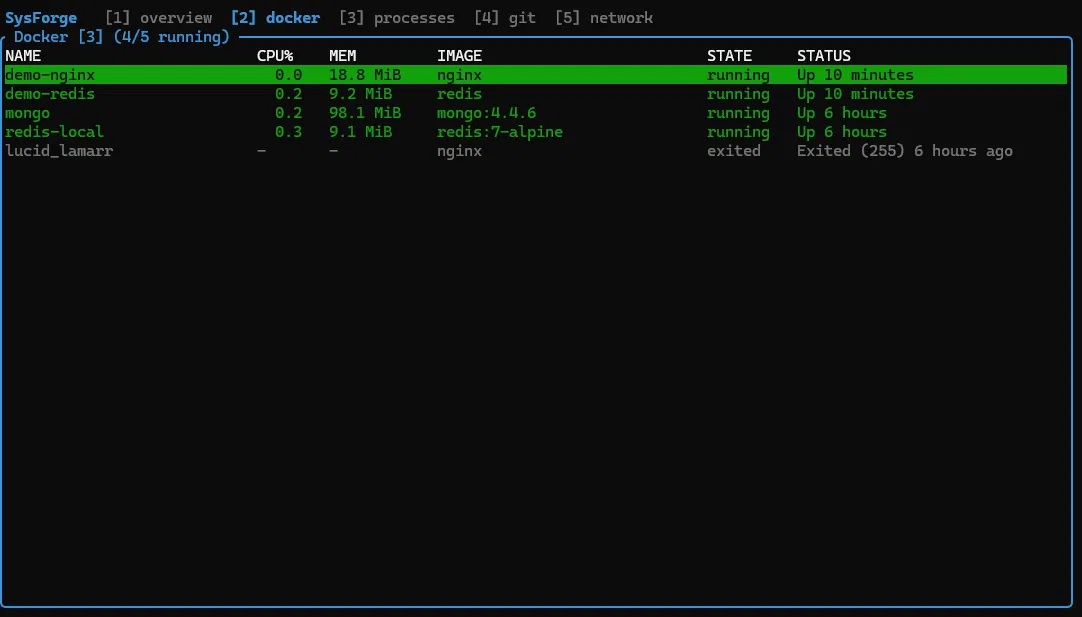
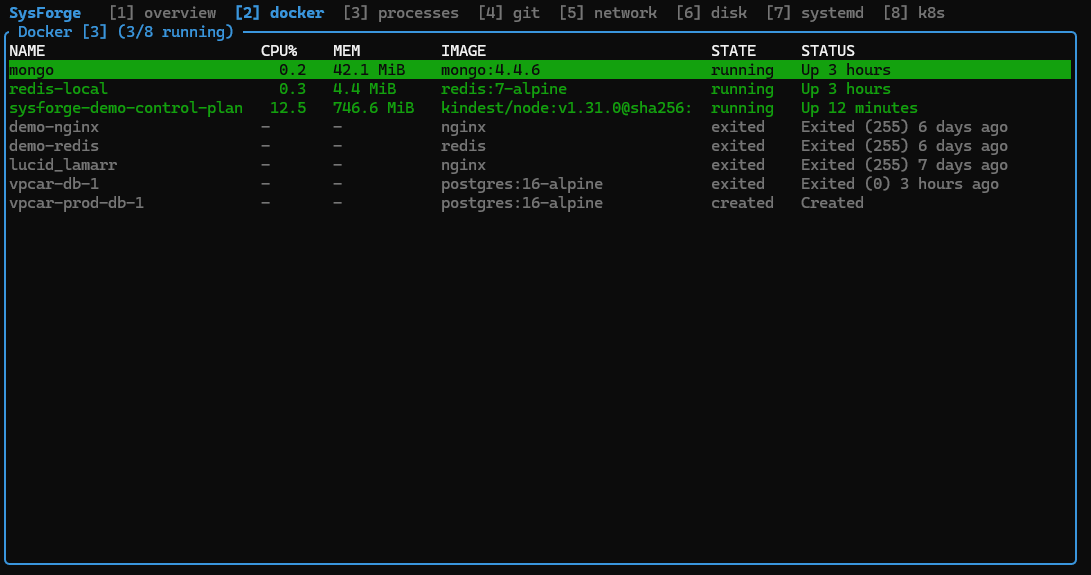
feat: wire up systemd start/stop service actions, update readme and docs

Changed region(s): [[0.0, 0.0, 1.0, 1.0]]

diff --git a/crates/app/src/ui.rs b/crates/app/src/ui.rs
@@ -339,6 +339,28 @@ impl UiState {
         }
     }
 
+    /// Proposes a start/stop on the focused systemd service.
+    fn propose_service(&mut self, state: &AppState, verb: sysforge_systemd::actions::Verb) {
+        if self.focus != PanelId::Systemd {
+            return;
+        }
+        let Some(service) = selected_service(state, self.systemd.index()) else {
+            return;
+        };
+        let action = match verb {
+            sysforge_systemd::actions::Verb::Start => "Start",
+            sysforge_systemd::actions::Verb::Stop => "Stop",
+            sysforge_systemd::actions::Verb::Restart => "Restart",
+        };
+        self.overlay = Some(Overlay::confirm(ActionRequest {
+            prompt: format!("{action} service {}?", service.name),
+            command: ActionCommand::Service {
+                verb,
+                unit: service.name.clone(),
+            },
+        }));
+    }
+
     /// Proposes a rolling restart of the focused pod's deployment.
     fn propose_rollout(&mut self, state: &AppState) {
         if self.focus != PanelId::K8s {
@@ -425,6 +447,12 @@ impl UiState {
                 }
             }
             Action::ProposeRollout => self.propose_rollout(state),
+            Action::ProposeStart => {
+                self.propose_service(state, sysforge_systemd::actions::Verb::Start);
+            }
+            Action::ProposeStop => {
+                self.propose_service(state, sysforge_systemd::actions::Verb::Stop);
+            }
         }
         self.docker.clamp(docker_rows(state));
         self.processes.clamp(process_rows(state));

diff --git a/crates/app/src/input.rs b/crates/app/src/input.rs
@@ -35,6 +35,10 @@ pub enum Action {
     Propose,
     /// Propose a rolling restart of the selected pod's deployment.
     ProposeRollout,
+    /// Propose starting the selected service.
+    ProposeStart,
+    /// Propose stopping the selected service.
+    ProposeStop,
 }
 
 /// Help section a binding belongs to. Presentation only: what an
@@ -175,7 +179,21 @@ const BINDINGS: &[Binding] = &[
         modifiers: KeyModifiers::NONE,
         action: Action::Propose,
         context: Context::Actions,
-        description: "propose action",
+        description: "restart selected (container / service / pod-delete)",
+    },
+    Binding {
+        code: KeyCode::Char('s'),
+        modifiers: KeyModifiers::NONE,
+        action: Action::ProposeStart,
+        context: Context::Actions,
+        description: "start service (systemd)",
+    },
+    Binding {
+        code: KeyCode::Char('x'),
+        modifiers: KeyModifiers::NONE,
+        action: Action::ProposeStop,
+        context: Context::Actions,
+        description: "stop service (systemd)",
     },
     Binding {
         code: KeyCode::Char('R'),

diff --git a/docs/RECORDING.md b/docs/RECORDING.md
@@ -1,0 +1,87 @@
+# Recording the demo GIF
+
+The README GIF is generated from [`demo.tape`](demo.tape) with
+[vhs](https://github.com/charmbracelet/vhs), so it can be regenerated
+deterministically whenever the UI changes — no manual re-recording.
+
+## One-time setup
+
+Install vhs (it also needs `ttyd` and `ffmpeg`):
+
+```bash
+# vhs — via Go, or grab a release binary from the repo
+go install github.com/charmbracelet/vhs@latest
+# dependencies
+sudo apt install ffmpeg
+go install github.com/tsl0922/ttyd@latest   # or a release binary
+```
+
+(If you prefer not to install Go: both vhs and ttyd publish prebuilt
+binaries on their GitHub releases pages.)
+
+## Generate the GIF
+
+From the repository root:
+
+```bash
+cargo build --release      # so the demo launches instantly
+vhs docs/demo.tape         # writes docs/media/demo.gif
+```
+
+Then commit the regenerated `docs/media/demo.gif`.
+
+## Tuning the demo
+
+Edit [`demo.tape`](demo.tape) — it's a plain script. Common tweaks:
+
+- `Set Theme` — any of the vhs themes (`vhs themes` lists them).
+- `Sleep` durations — how long each view lingers.
+- `Set PlaybackSpeed` — global speed multiplier.
+- The `Type "N"` lines choose which views the tour visits.
+
+For the richest demo, record on a machine where the interesting domains
+are live: Docker running with a few containers, a Git repo, and — for the
+Kubernetes view — a local cluster with some pods.
+
+### A quick Kubernetes cluster for the demo
+
+`kind` runs a whole cluster inside Docker (which you already have):
+
+```bash
+# install kind (single binary)
+curl -Lo ./kind https://kind.sigs.k8s.io/dl/v0.24.0/kind-linux-amd64
+chmod +x ./kind && sudo mv ./kind /usr/local/bin/kind
+
+# create the cluster (writes ~/.kube/config automatically)
+kind create cluster --name sysforge-demo
+```
+
+Then enable Kubernetes in `~/.config/sysforge/config.toml`:
+
+```toml
+[k8s]
+enabled = true
+```
+
+For a demo that shows the status colors off, add a healthy deployment and a
+deliberately-broken pod:
+
+```bash
+kubectl create deployment web --image=nginx --replicas=3   # green, Running
+kubectl run crasher --image=busybox --restart=Always -- /bin/sh -c "exit 1"  # red, CrashLoopBackOff
+kubectl run badimage --image=does-not-exist:v9             # red, ImagePullBackOff
+```
+
+Wait ~30s, then the Kubernetes view shows healthy pods in green and the
+broken ones in red at the top (not-ready first). Clean up afterwards with
+`kind delete cluster --name sysforge-demo`.
+
+## Why not asciinema?
+
+asciinema 2.x (the apt version) does not capture the terminal's alternate
+screen, which is exactly where a full-screen TUI like SysForge draws — so
+the recording comes out blank. vhs captures it correctly and, being
+script-driven, keeps the GIF reproducible. (asciinema 3.x also fixes the
+alternate-screen issue if you prefer a `.cast` you can embed as a web
+player, but GitHub renders GIFs inline and not the player, so the GIF wins
+for the README header.)

diff --git a/README.md b/README.md
@@ -5,8 +5,10 @@
 
 A terminal dashboard that brings your development environment into a single
 screen: CPU, memory, processes, Docker containers, the current Git
-repository, and network interfaces — each in its own full-screen view, all
-updating live.
+repository, network interfaces, disk I/O, systemd services, and Kubernetes
+pods — each in its own full-screen view, all updating live, with contextual
+actions (restart a container, delete a pod, restart a service) a keypress
+away.
 
 SysForge is built for Linux and WSL, in Rust, with an emphasis on clean
 architecture: every domain is an independent crate, data flows in one
@@ -23,7 +25,7 @@ cd sysforge
 cargo run --release
 ```
 
-Press `?` at any time for the key bindings. `1`–`5` switch views, `Tab`
+Press `?` at any time for the key bindings. `1`–`8` switch views, `Tab`
 cycles panels within a view, `q` quits.
 
 ### Configuration
@@ -212,6 +214,12 @@ every push and pull request.
   <img src="docs/media/demo.gif" alt="SysForge live demo" width="820">
 </p>
 
+<p align="center">
+  <em>The GIF is generated from <a href="docs/demo.tape"><code>docs/demo.tape</code></a>
+  with <a href="https://github.com/charmbracelet/vhs">vhs</a> — run
+  <code>vhs docs/demo.tape</code> to regenerate it.</em>
+</p>
+
 ### Overview — every domain at a glance
 
 CPU and memory gauges with live sparklines, running containers, and the top
@@ -247,11 +255,34 @@ sparkline; busiest interfaces float to the top.
 
 ![Network view](docs/media/network.png)
 
+### Disk — usage and I/O
+
+Per-device read and write throughput with sparklines, plus capacity and
+used percentage; pseudo-filesystems and duplicate mounts are filtered out.
+
+![Disk view](docs/media/disk.png)
+
+### systemd — service state
+
+Units with their activation state, failed services floated to the top;
+select a service and press `s` / `x` / `r` to start, stop, or restart it.
+
+![Systemd view](docs/media/systemd.png)
+
+### Kubernetes — pods across the cluster
+
+Pods from the current kubeconfig context, fed by a live watch, with
+`kubectl`-accurate status (CrashLoopBackOff, ImagePullBackOff) colored by
+severity and not-ready pods first. Delete a pod, request a rollout restart,
+or fetch logs — all with a confirmation step. Opt-in via `[k8s] enabled = true`.
+
+![Kubernetes view](docs/media/k8s.png)
+
 ## Roadmap
 
-Domains under consideration for future versions: Kubernetes, database
-connections (PostgreSQL, Redis, MongoDB, MySQL), cloud CLIs, and richer
-per-domain interactions (container exec, commit diffs, log streaming).
+Domains under consideration for future versions: database connections
+(PostgreSQL, Redis, MongoDB, MySQL), cloud CLIs, and richer per-domain
+interactions (container exec, commit diffs, live log streaming).
 
 ## License
 
